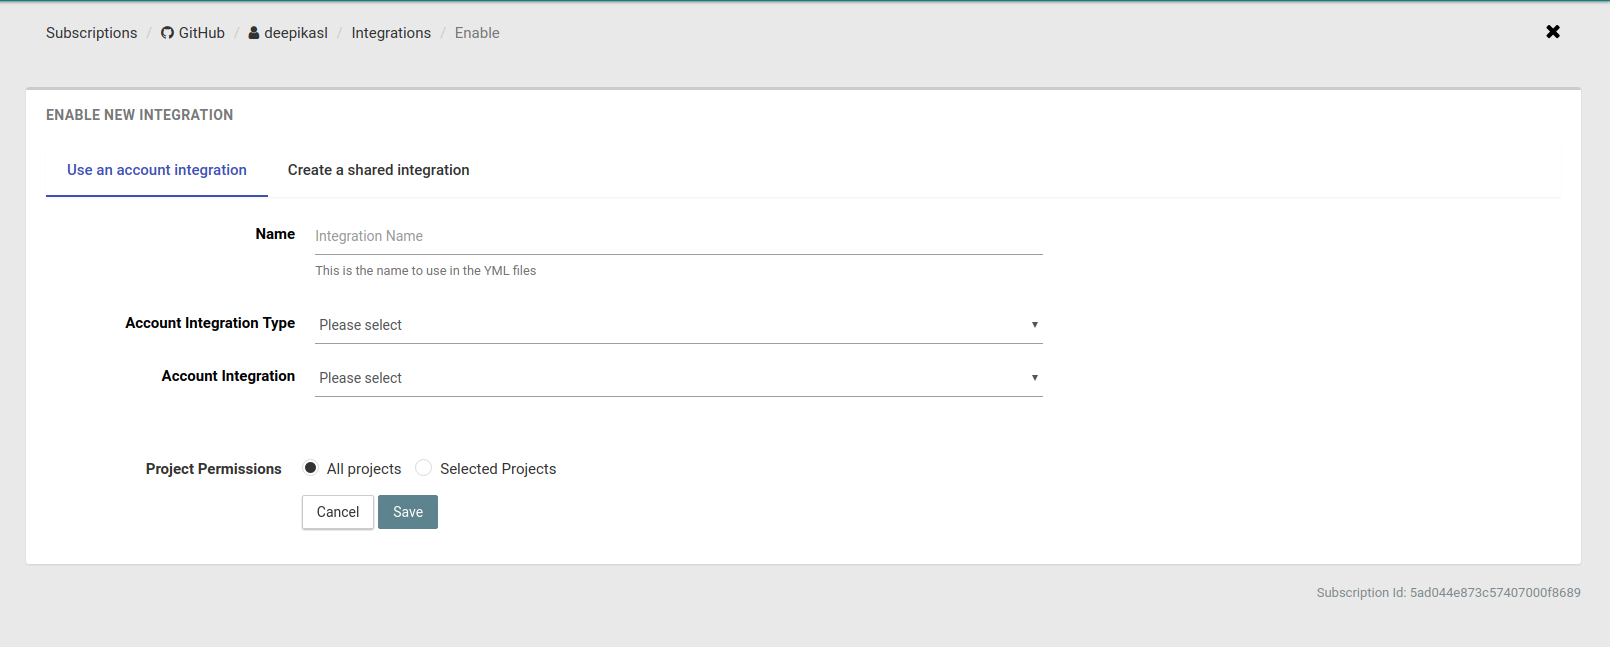
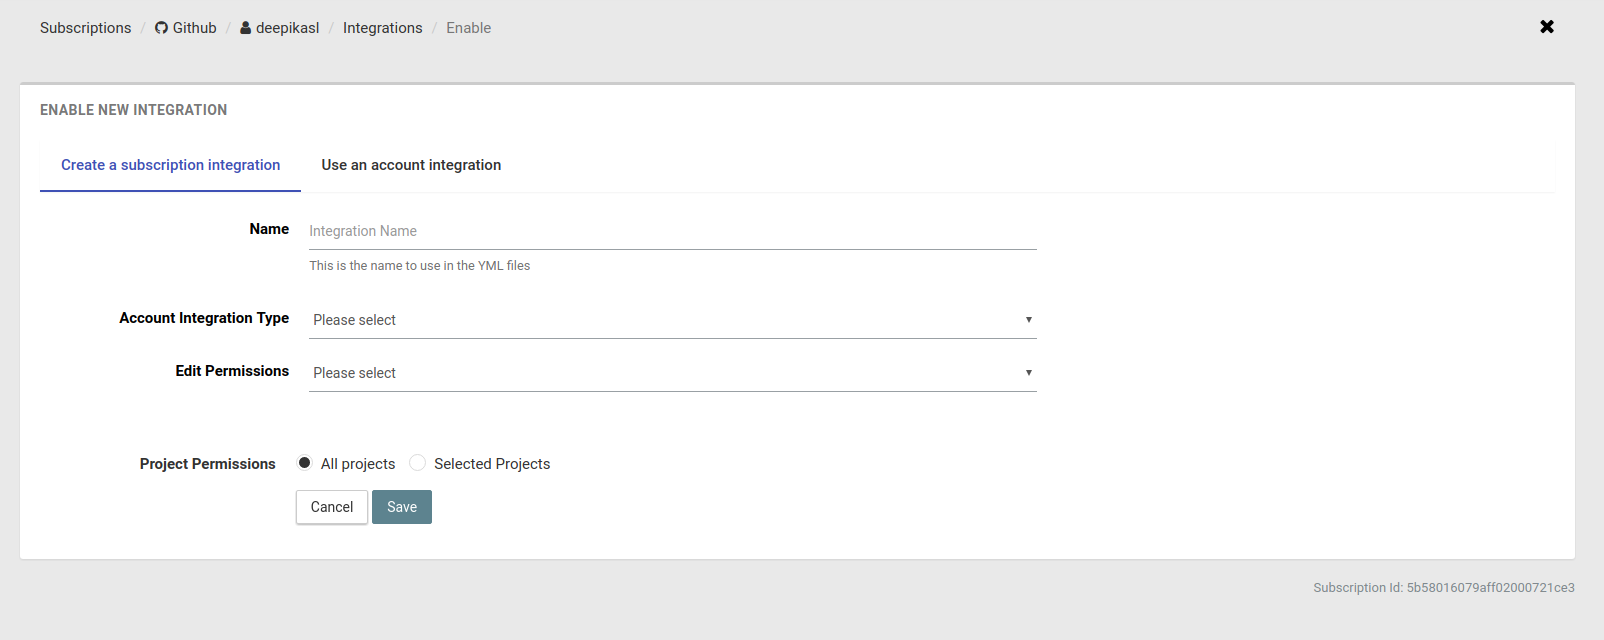
review points

diff --git a/sources/platform/tutorial/integration/howto-crud-integration.md b/sources/platform/tutorial/integration/howto-crud-integration.md
@@ -40,23 +40,28 @@ Integrations can be configured in the `integrations` section of your **shippable
 
 ## Adding integration to a subscription
 
-You can either add a existing account integration to your subscription or you can also create a integration without using account integration.
+Follow the steps to go to the create subscription integration page:
 
 - In the **Subscriptions** section of your left navbar, click on the Subscription you need.
 - Click on the **Settings (Gear)** icon and click on **Integrations** in the dropdown.
 - Click on the **+** button on the top right
-- Name your integration and then in the **Account integrations** dropdown, select the integration you want to add. To keep it easy, name your integration with the same name as your account integration.
 
-<img width="75%" height="75%" src="/images/platform/tutorial/integrations/add-subscription-integration-view.png" alt="using account integration">
+<img width="75%" height="75%" src="/images/platform/tutorial/integrations/add-subscription-integration-view.png" alt="default subscription integration">
 
-- You can also create a shared integration on your subscription, by following the steps below:
-     - Name your integration and then choose the right **Integration type** depending on what you are trying to configure.
-     - You can restrict usage of the integration by providing Edit permissions.
+There are two types of subscription integration.
+- Subscription integration at account level
+- Subscription integration at subscription level
 
-<img width="75%" height="75%" src="/images/platform/tutorial/integrations/add-shared-subInt.png" alt="shared subscription integration">
+When you create a subscription integration at account level, you can reuse it across multiple subscriptions, but you will not be able to share edit permissions with anyone.
+
+<img width="75%" height="75%" src="/images/platform/tutorial/integrations/using-acc-int.png" alt="subscription integration at account level">
+
+When you create a subscription integration at subscription level, you cannot share it across subscriptions but you can allow other members of your subscription to edit it.
+
+<img width="75%" height="75%" src="/images/platform/tutorial/integrations/edit-permissions.png" alt="subscription integration at subscription level">
 
 - If you want to restrict usage of the integration to specific projects, choose the Project(s). You can just leave it at *All projects* to let all projects in the Subscription use it.
-- Click on **Create**. Please note that the name of your integration in your Subscription Settings should be used when referring to this integration in your `yml` files.
+- Click on **Save**. Please note that the name of your integration in your Subscription Settings should be used when referring to this integration in your `yml` files.
 
 ## Updating a Subscription integration's underlying account integration
 

diff --git a/sources/platform/management/subscription/integrations.md b/sources/platform/management/subscription/integrations.md
@@ -41,7 +41,7 @@ You can click on the integration name and make the following edits to your Subsc
 
 * Change integration name: This does not affect your account integration name, but just changes the name at a Subscription level. Please note that your project YAML files should use the Subscription integration name.
 * If you are using already existing account integration on your subscription then you can change underlying account integration : This is a handy way to start using new credentials for your workflows without needing to change the integration name in the YAML. For example, if Tom added all integrations and then leaves the company, Mary can add her own account integrations, and then change all Subscription integrations to start using her account integrations instead of Tom's.
-* If you are using a shared subscription integration, then you can also restrict use of the integration to collaborators or members as a security measure
+* If you are using a subscription integration at subscription level, you cannot share this across subscriptions but you can allow members of your subscription to edit it
 * Restrict use of the integration to specific projects in the Subscription as a security measure.  
 
 ## Deleting an integration from a Subscription
